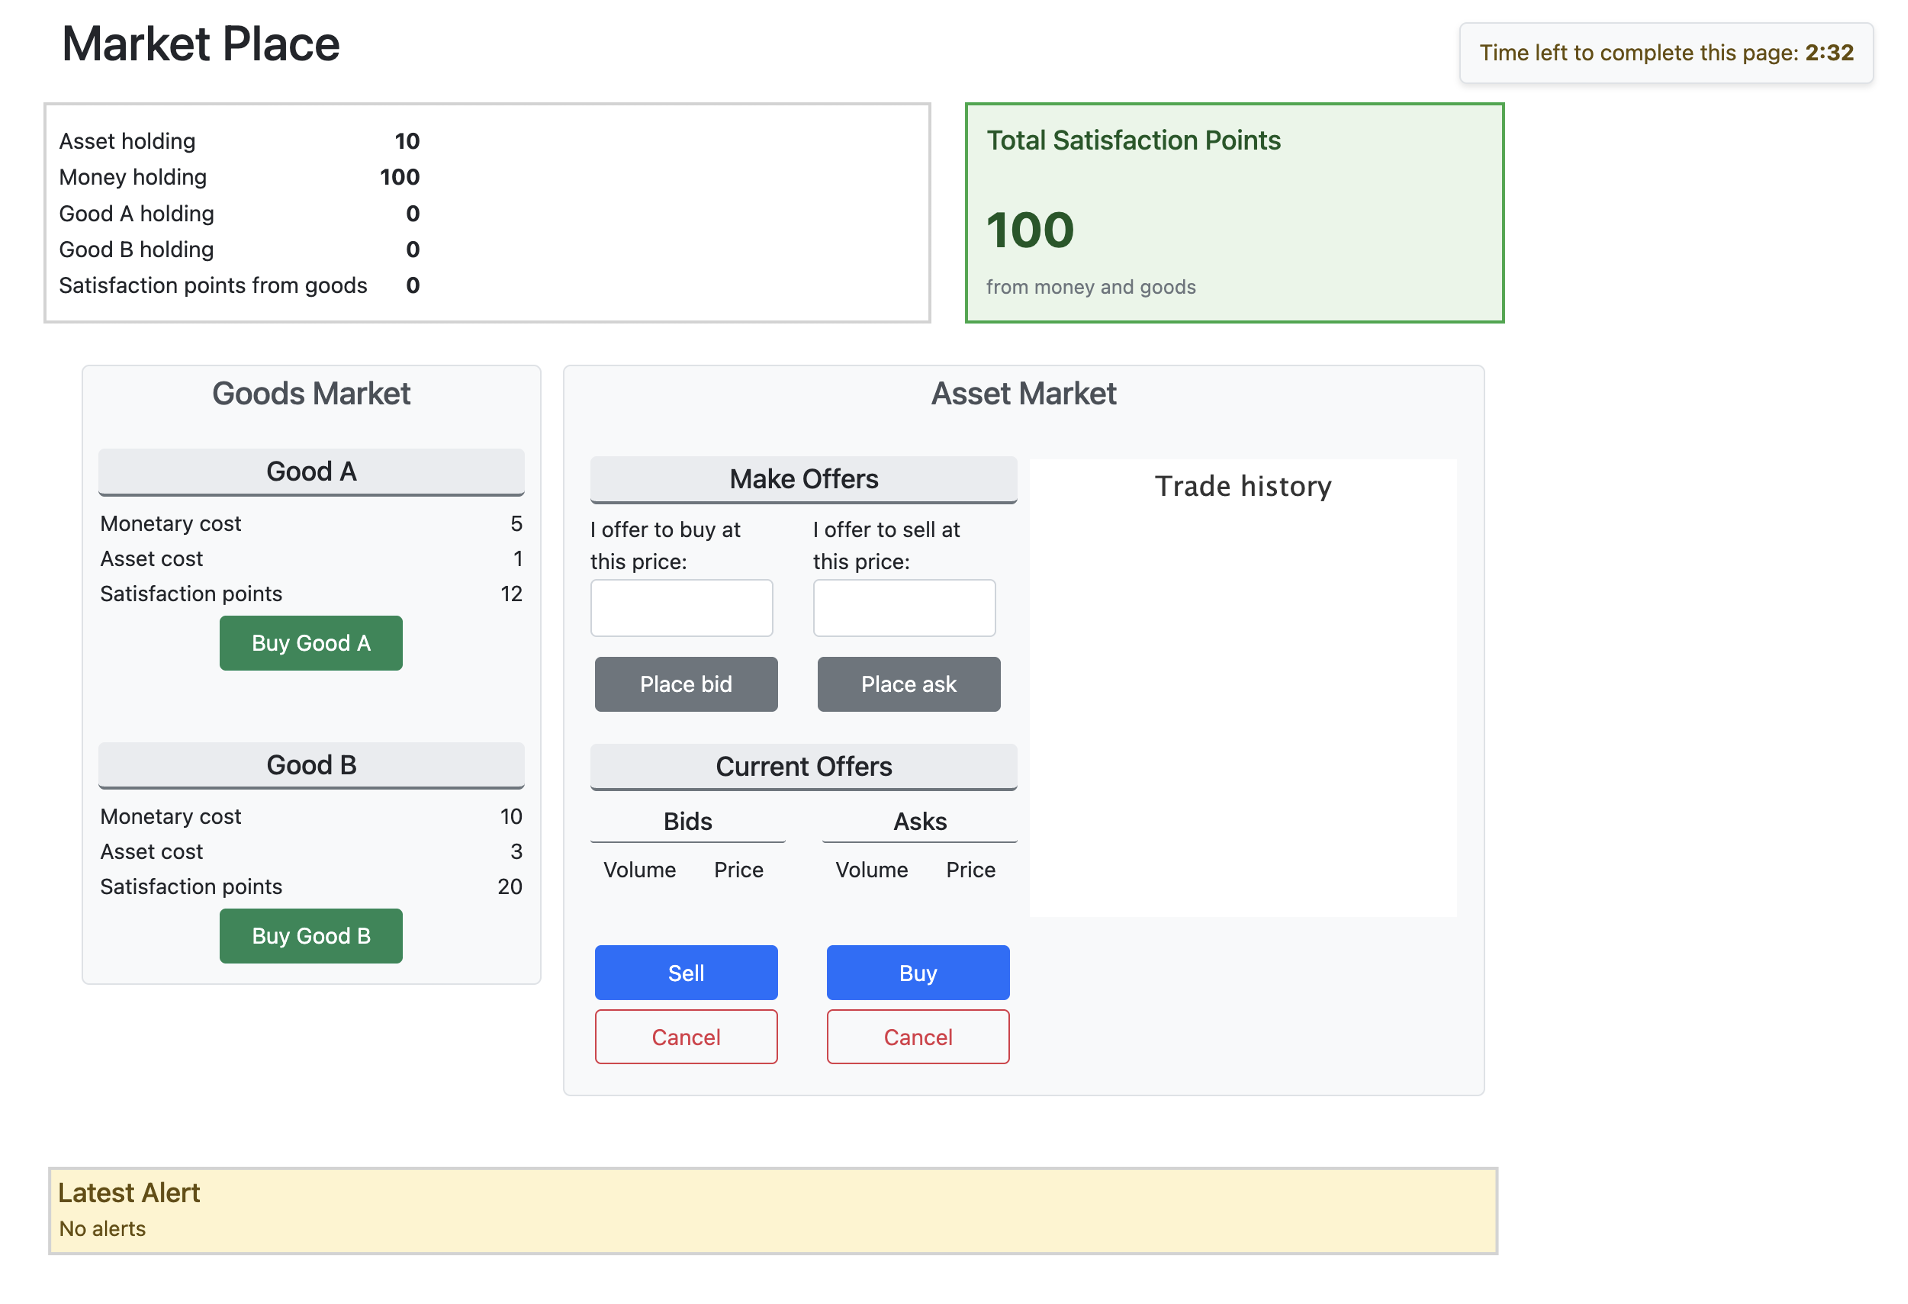
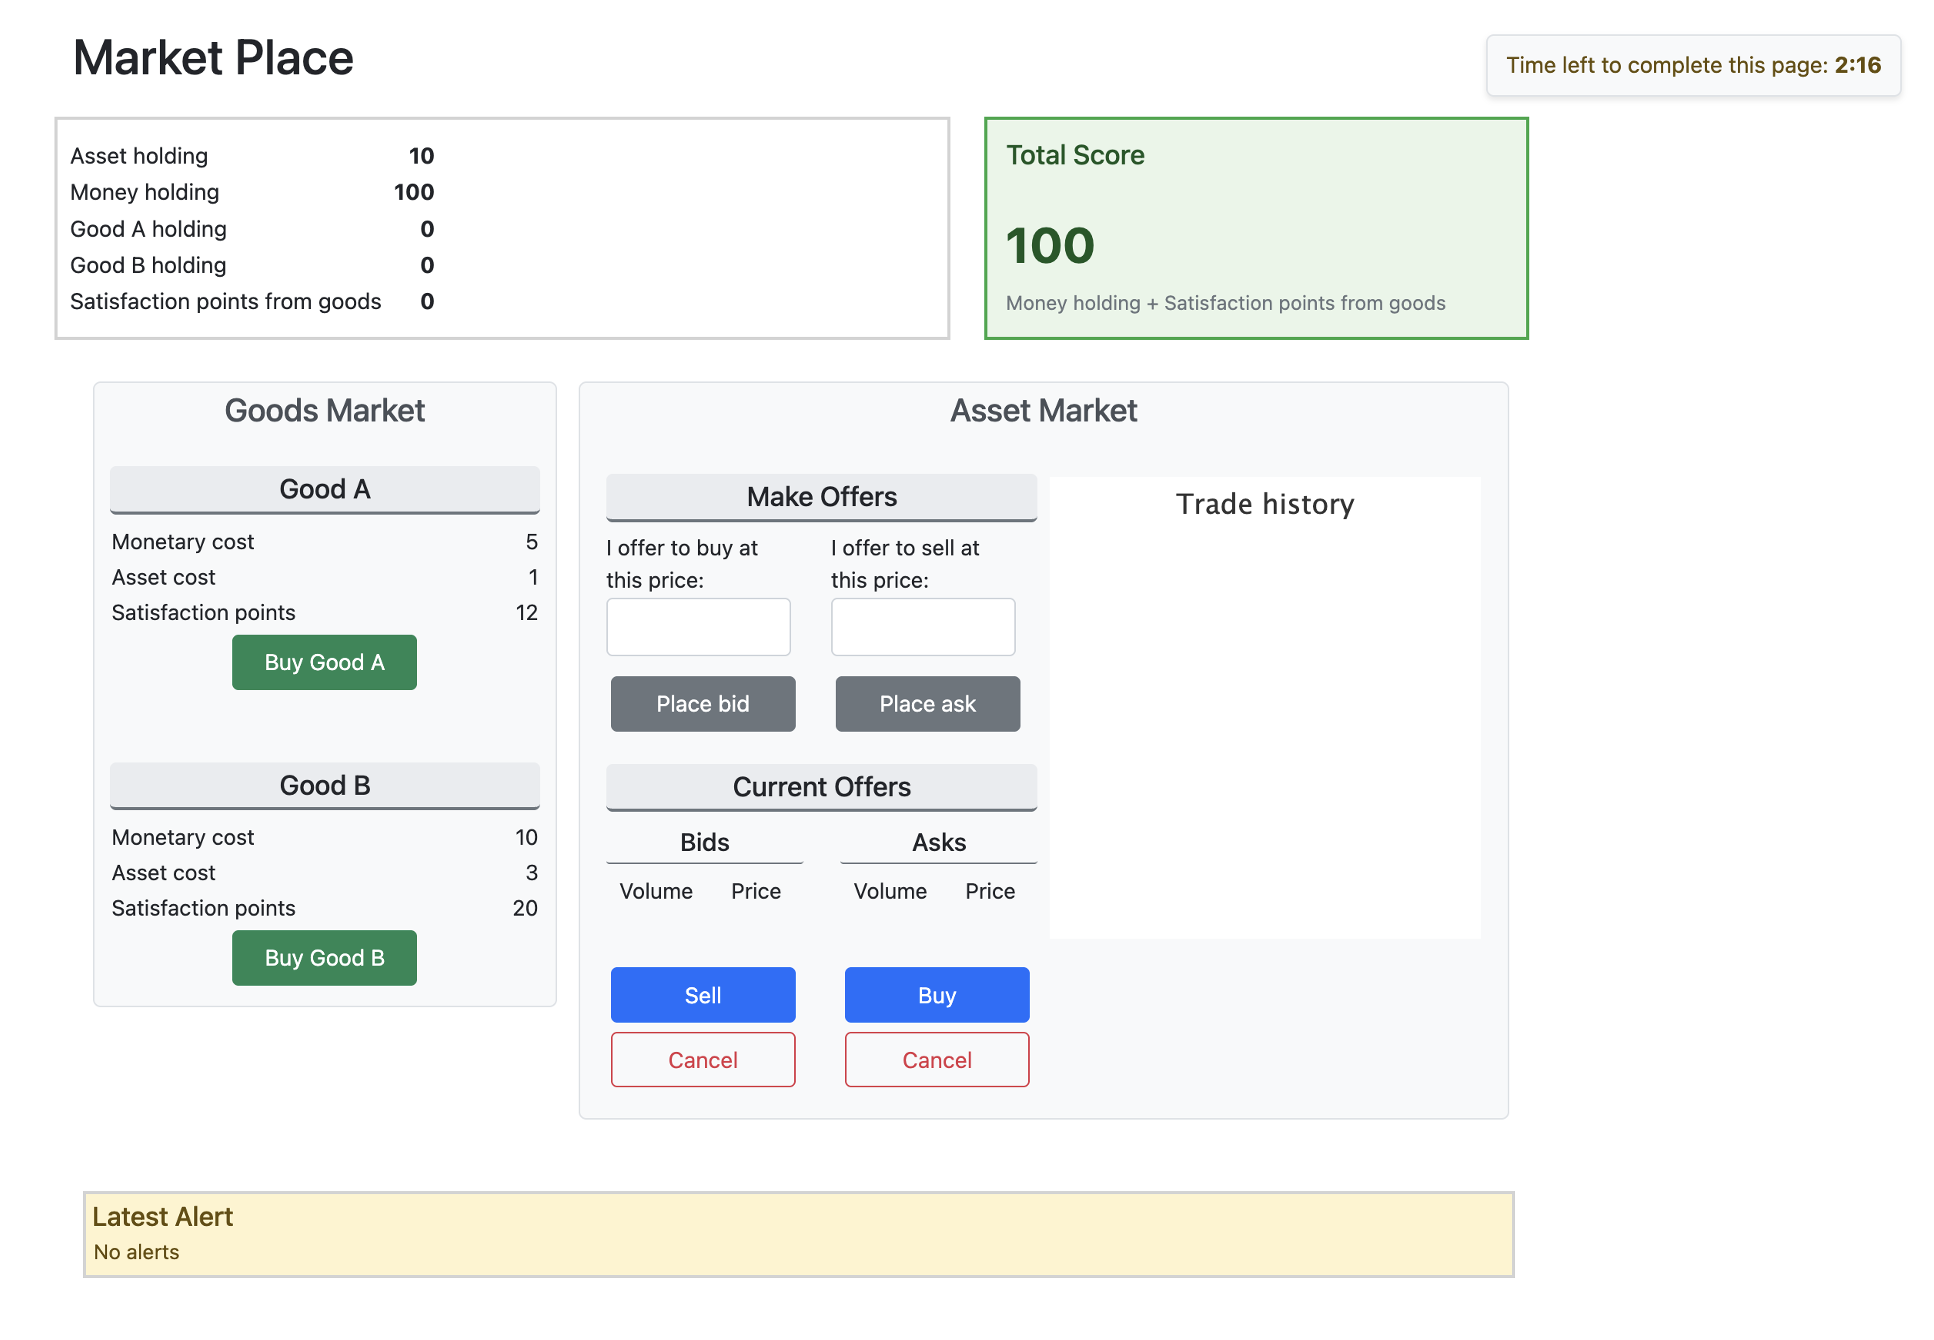
Total Satisfaction Points -> Total Score

diff --git a/singleAsset/Instructions.html b/singleAsset/Instructions.html
@@ -12,7 +12,7 @@ The purpose of the study is to investigate trading behavior in an <strong>experi
 <h3>Structure of the study</h3>
 <p>The study will proceed as follows:</p>
 <ol>
-  <li><strong>Instruction check:</strong> A short quiz to make sure the rules are understood.</li>
+  <li><strong>Comprehension check:</strong> A short quiz to make sure the rules are understood.</li>
   <li><strong>Trial round:</strong> One practice trading period.</li>
   <li><strong>Main part:</strong> 8 trading rounds, each lasting <strong>2.5 minutes</strong>.</li>
   <li><strong>Final part:</strong> A brief survey.</li>
@@ -26,7 +26,7 @@ The purpose of the study is to investigate trading behavior in an <strong>experi
 <ul>
   <li>The group of participants you interact with remains the same throughout the study.</li>
   <li>At the start of each round, you will receive a new endowment of <strong>money and assets</strong>. Endowments do <strong>not carry over</strong> between rounds.</li>
-  <li>Your goal in each round is to <strong>maximize your Total Satisfaction Points</strong> by trading assets with other participants and buying goods.</li>
+  <li>Your goal in each round is to <strong>maximize your Total Score</strong> by trading assets with other participants and buying goods.</li>
 </ul>
 
 <img src="{% static 'images/marketplace_screenshot.png' %}" alt="Screenshot of the Market Place interface" style="max-width: 100%; height: auto; border: 1px solid #ddd; border-radius: 5px; margin: 20px auto; display: block;">
@@ -34,7 +34,7 @@ The purpose of the study is to investigate trading behavior in an <strong>experi
 <h3>Endowment</h3>
 <p>
   Before each trading round begins, your <strong>assigned endowment of money and assets</strong> will be displayed. 
-  You will always start the round with 0 goods.
+  You will always start the round without any goods.
   Once the round starts, your holdings are shown in the white box on the market screen.
 </p>
 
@@ -42,7 +42,7 @@ The purpose of the study is to investigate trading behavior in an <strong>experi
 <ul>
   <li>You can buy two types of goods: <strong>Good A</strong> and <strong>Good B</strong>.</li>
   <li>Goods have fixed costs in money and assets and give you <strong>satisfaction points</strong>.</li>
-  <li>When you buy a good, the required money and assets are deducted, and the satisfaction points are added to your <strong>Total Satisfaction Points</strong>.</li>
+  <li>When you buy a good, the required money and assets are deducted, and the satisfaction points are added to your <strong>Total Score</strong>.</li>
   <li>You may buy as many goods as you want, as long as you have enough money and assets.</li>
   <li>Goods can only be <strong>bought</strong>, not sold.</li>
 </ul>
@@ -57,9 +57,9 @@ The purpose of the study is to investigate trading behavior in an <strong>experi
     </ul>
   </li>
   <li>All bids and asks are displayed in the lower half of the market.</li>
-  <li>To accept another participant’s bid or ask, select it and click <strong>Buy</strong> or <strong>Sell</strong>. Your asset and money holdings will be updated automatically.</li>
+  <li>To accept another participant’s bid or ask, select it and click <strong>Sell</strong> or <strong>Buy</strong>. Your asset and money holdings will be updated automatically.</li>
   <li>Your own posted offers appear in red. You cannot accept your own offers, but you may cancel them at any time by selecting them and clicking <strong>Cancel</strong>.</li>
-  <li>The <strong>trade history graph</strong> shows the timing and prices of assettrades made between participants in your group.</li>
+  <li>The <strong>trade history graph</strong> shows the timing and prices of asset trades made between participants in your group.</li>
 </ul>
 
 <img src="{% static 'images/assetmarket_screenshot.png' %}" alt="Screenshot of the Asset Market interface" style="width: 60%; height: auto; border: 1px solid #ddd; border-radius: 5px; margin: 20px auto; display: block;">
@@ -79,16 +79,16 @@ The purpose of the study is to investigate trading behavior in an <strong>experi
   If you attempt such an action, a message will appear in the Latest Alert box to inform you why the action is not allowed.
 </p>
 
-<h3>Total Satisfaction Points</h3>
+<h3>Total Score</h3>
 <p>
-  Your goal is to maximize your <strong>Total Satisfaction Points (Score)</strong>, as this will affect your payout.
+  Your goal is to maximize your <strong>Total Score</strong>, as this will affect your payout.
 </p>
 <div style="text-align: center; font-family: 'Times New Roman', serif; font-size: 18px; margin: 20px 0; padding: 20px; font-style: italic; background-color: #f0f4f8; border-left: 4px solid #5a7a8a; border-radius: 5px;">
-  <strong>Total Satisfaction Points = Money holding + Satisfaction Points from goods</strong>
+  <strong>Total Score = Money holding + Satisfaction points from goods</strong>
 </div>
 
 <p><em>Example:</em><br> Imagine you start a round with 10 assets, 100 monetary units (mu) and 0 goods.
-This gives you an initial <strong>100 Total Satisfaction Points</strong>. 
+This gives you an initial <strong>Total Score of 100</strong>. 
 </p>
 
 <p>You can increase your Score by buying goods or selling assets.</p>
@@ -107,11 +107,11 @@ your new Score is: 100 + 10 mu = <strong>110</strong>.</li>
 </p>
 <ol>
   <li>A base payout of <strong>€15</strong>.</li>
-  <li>A <strong>performance-based payout</strong> that depends on your percentage change in Total Satisfaction Points in <strongone randomly selected round.</li>
+  <li>A <strong>performance-based payout</strong> that depends on your Score Change in <strong>a randomly selected round</strong>.</li>
 </ol>
 
 <p>
-  The percentage change is defined as:
+  The Score Change is defined as:
 </p>
 
 <div style="text-align: center; font-family: 'Times New Roman', serif; font-size: 18px; margin: 20px 0; padding: 20px; font-style: italic; background-color: #f0f4f8; border-left: 4px solid #5a7a8a; border-radius: 5px;">
@@ -119,7 +119,7 @@ your new Score is: 100 + 10 mu = <strong>110</strong>.</li>
 </div>
 
 <p>
-  This percentage change in the randomly selected round <em>i</em> is then multiplied by 90 and added to your base payout of €15.
+  The Score Change in the randomly selected round <em>i</em> is then multiplied by 90 and added to your base payout of €15.
   Your payout cannot be negative, therefore the calculation is:
 </p>
 
@@ -129,8 +129,8 @@ your new Score is: 100 + 10 mu = <strong>110</strong>.</li>
 
 <p><em>Example:</em><br>
 Initial Score in round i = 100, Final Score in round i = 120<br>
-→ Score change = 20%.<br>
-Your Payout = €15 + (20% × 90) = €15 + €18 = <strong>€33</strong>.
+→ Score Change = 20%.<br>
+Payout = €15 + (20% × 90) = €15 + €18 = <strong>€33</strong>.
 </p>
 
 

diff --git a/singleAsset/Market.html b/singleAsset/Market.html
@@ -212,7 +212,7 @@ hr { margin: 12px 0 !important; }
         <th>Good B holding</th>
         <td id="goodB_qty">{{ player.goodB_qty }}</td>
     </tr>
-    <tr style="display: none;">
+    <tr>
         <th>Satisfaction points from goods</th>
         <td id="goods_utility">{{ player.goods_utility }}</td>
     </tr>
@@ -220,12 +220,12 @@ hr { margin: 12px 0 !important; }
     </table>
     </div>
     
-    <!-- Total Satisfaction Points - Highlighted Box -->
+    <!-- Total Score - Highlighted Box -->
     <div class="col-sm" style="flex: 1; margin-left: 10px;">
         <div class="div_box" style="background-color: #e8f5e8; border: 2px solid #28a745; padding: 12px; text-align: center;">
-            <h3 style="margin-bottom: 8px; color: #155724; font-size: 1.1rem;">Total Satisfaction Points</h3>
+            <h3 style="margin-bottom: 8px; color: #155724; font-size: 1.1rem;">Total Score</h3>
             <div id="overall_utility" style="font-size: 2rem; font-weight: bold; color: #155724;">{{ player.overall_utility }}</div>
-            <p style="margin-top: 4px; font-size: 0.8rem; color: #6c757d;">from money and goods</p>
+            <p style="margin-top: 4px; font-size: 0.8rem; color: #6c757d;">Money holding + Satisfaction points from goods</p>
         </div>
     </div>
 </div>
